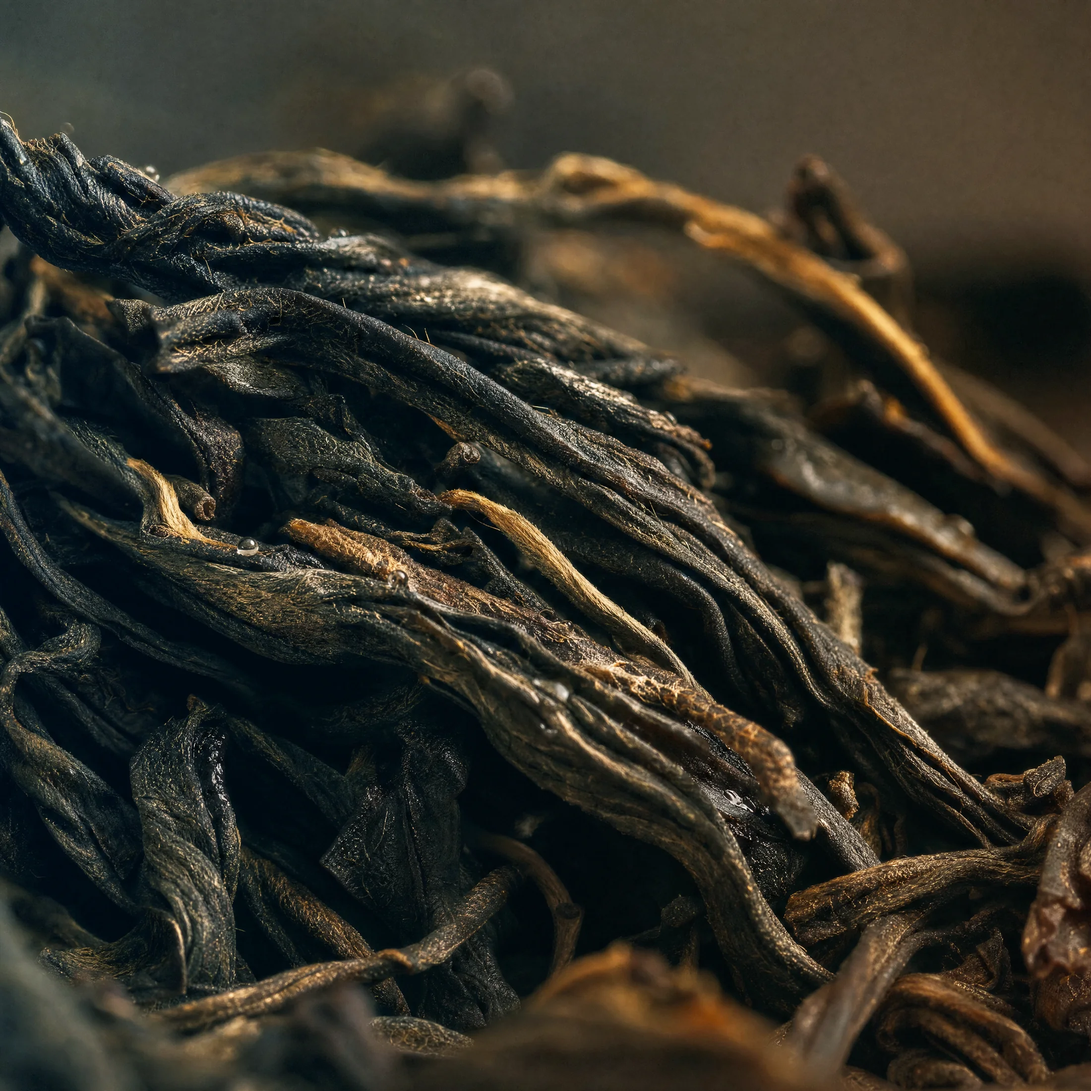
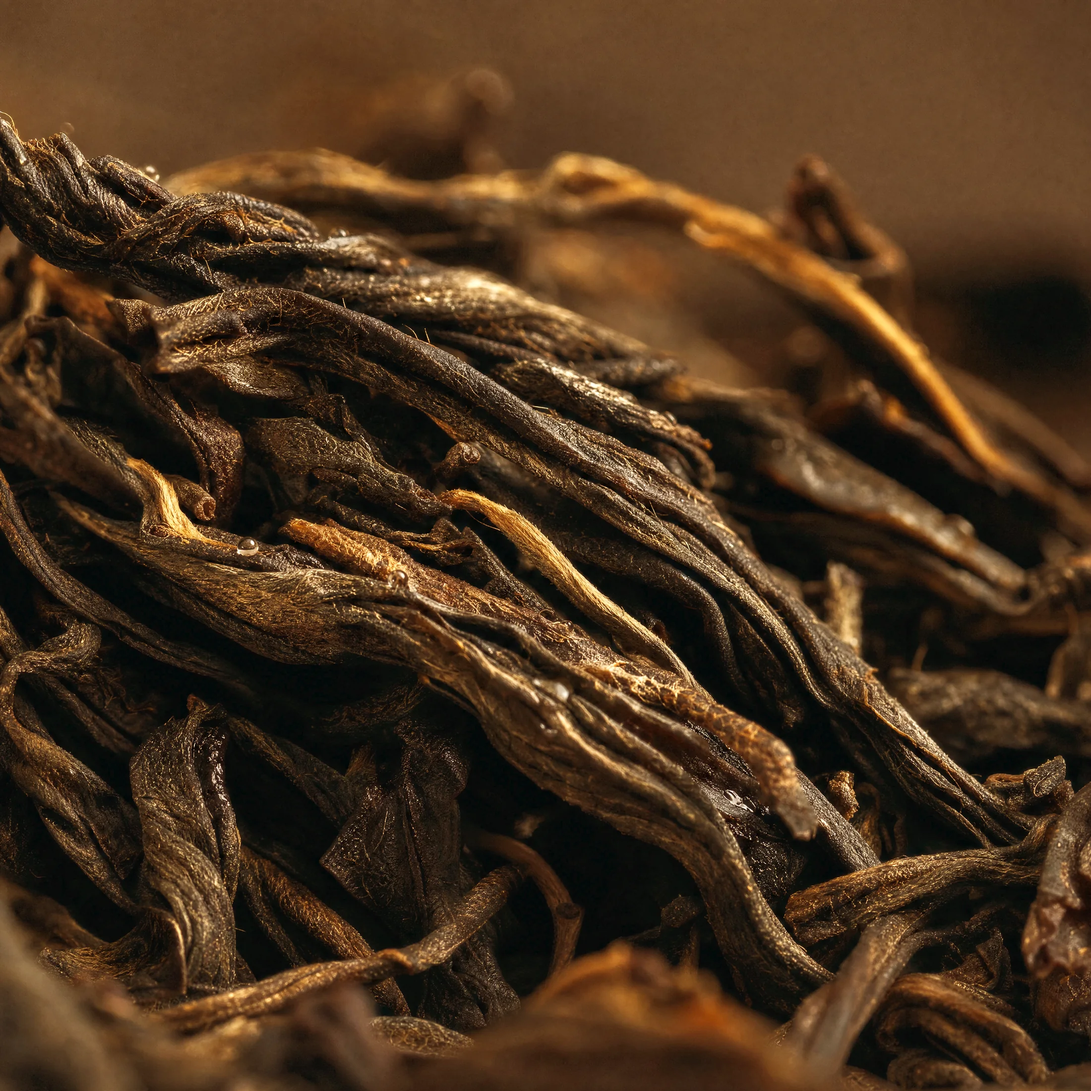
Switch Home glow to molten gold with blooming, brighter glow
- Solid molten-gold edge glow (dropped teal->gold gradient), higher opacity.
- Added a blurred bloom layer so the glow bleeds out into the surroundings.
- Re-baked the leaf photo with a warm molten-gold grade; brightened the glow
  on mobile too so phone and desktop match.

diff --git a/src/index.css b/src/index.css
@@ -332,9 +332,30 @@ body {
   mask-repeat: no-repeat;
 }
 .leaf-edge-glow {
-  opacity: 0.3;
-  filter: blur(1.2px);
+  opacity: 0.6;
+  filter: blur(1px);
   animation: edgePulse 5s ease-in-out infinite;
+}
+/* Wide bloom: the masked glow (inner) is blurred by the wrapper so the light
+   bleeds outward into the dark surroundings. */
+.leaf-edge-bloom {
+  position: absolute;
+  inset: 0;
+  pointer-events: none;
+  mix-blend-mode: screen;
+  filter: blur(9px);
+  opacity: 0.6;
+  animation: edgePulse 5s ease-in-out infinite;
+}
+.leaf-edge-bloom-mask {
+  position: absolute;
+  inset: 0;
+  -webkit-mask-size: cover;
+  mask-size: cover;
+  -webkit-mask-position: center;
+  mask-position: center;
+  -webkit-mask-repeat: no-repeat;
+  mask-repeat: no-repeat;
 }
 .leaf-edge-flow {
   background-size: 300% 300%;
@@ -357,7 +378,8 @@ body {
    edge glow so nothing appears to "move around" on mobile. */
 @media (pointer: coarse), (max-width: 768px) {
   .leaf-edge-flow { display: none; }
-  .leaf-edge-glow { animation: none; opacity: 0.32; }
+  .leaf-edge-glow { animation: none; opacity: 0.62; }
+  .leaf-edge-bloom { animation: none; opacity: 0.6; }
 }
 
 /* Hover-to-zoom loupe: specular highlight, focus vignette and a one-shot

diff --git a/src/components/LeafBackground.jsx b/src/components/LeafBackground.jsx
@@ -89,6 +89,17 @@ export default function LeafBackground({
           plus a bright band that flows along the contours. */}
       {edges && (
         <>
+          {/* wide bloom that bleeds the glow out into the surroundings */}
+          <div className="leaf-edge-bloom">
+            <div
+              className="leaf-edge-bloom-mask"
+              style={{
+                WebkitMaskImage: `url(${edges})`,
+                maskImage: `url(${edges})`,
+                background: edgeGradient || edgeColor,
+              }}
+            />
+          </div>
           <div
             className="leaf-edge-glow"
             style={{

diff --git a/src/pages/Home.jsx b/src/pages/Home.jsx
@@ -66,8 +66,7 @@ export default function Home() {
         staticImage
         scale={1.04}
         edges="/images/home-leaf-edges.png"
-        edgeColor="#e6b45a"
-        edgeGradient="linear-gradient(120deg, #35c9e0 0%, #57d9c0 40%, #e6b45a 100%)"
+        edgeColor="#f5b64e"
       />
       <div className="relative z-10">
       {/* Minimal hero: the fixed leaf background shows through this transparent
